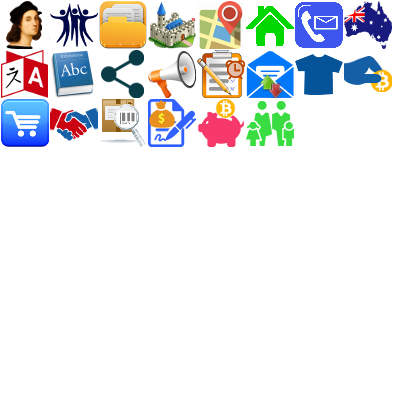
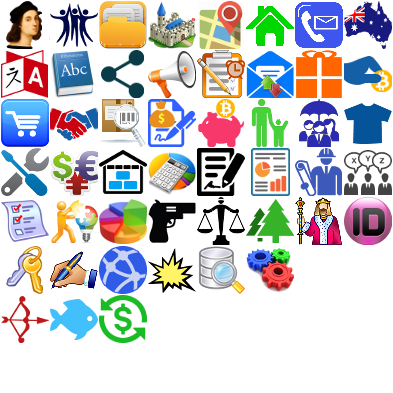
version 0.42 alpha

Changed region(s): [[0.0, 0.1221, 1.0, 0.8855]]

diff --git a/pandora.rb b/pandora.rb
@@ -14449,22 +14449,24 @@ module PandoraGtk
   # RU: Добавить кнопку на панель инструментов
   def self.add_tool_btn(toolbar, stock, title, toggle=nil)
     btn = nil
+    p 'stock='+stock.inspect
+    if stock.is_a? String
+      image = $window.get_preset_image(stock)
+      #p buf = $window.get_icon_buf(stock, 'pan')
+      #iconset = Gtk::IconSet.new(buf)
+      #image = Gtk::Image.new(iconset, Gtk::IconSize::MENU)
+    else
+      image = Gtk::Image.new(stock, Gtk::IconSize::MENU)
+    end
     if toggle != nil
       btn = SafeToggleToolButton.new(stock)
+      #btn = Gtk::ToolButton.new(image, _(title))
       btn.safe_signal_clicked do |*args|
+      #btn.signal_connect('clicked') do |*args|
         yield(*args) if block_given?
       end
       btn.active = toggle if toggle
     else
-      p stock
-      if stock.is_a? String
-        image = $window.get_preset_image(stock)
-        #p buf = $window.get_icon_buf(stock, 'pan')
-        #iconset = Gtk::IconSet.new(buf)
-        #image = Gtk::Image.new(iconset, Gtk::IconSize::MENU)
-      else
-        image = Gtk::Image.new(stock, Gtk::IconSize::MENU)
-      end
       #btn = Gtk::ToolButton.new(iconset, _(title))
       btn = Gtk::ToolButton.new(image, _(title))
       #btn = Gtk::ToolButton.new(stock)
@@ -15867,7 +15869,7 @@ module PandoraGtk
     dlg.transient_for = $window
     dlg.icon = $window.icon
     dlg.name = $window.title
-    dlg.version = '0.41'
+    dlg.version = '0.42'
     dlg.logo = Gdk::Pixbuf.new(File.join($pandora_view_dir, 'pandora.png'))
     dlg.authors = [_('Michael Galyuk')+' <robux@mail.ru>']
     dlg.artists = ['© '+_('Rights to logo are owned by 21th Century Fox')]
@@ -16583,7 +16585,7 @@ module PandoraGtk
       tool_btn = $toggle_buttons[PandoraGtk::SF_Listen]
       if tool_btn
         lis_act = ($tcp_listen_thread != nil) or ($udp_listen_thread != nil)
-        tool_btn.safe_set_active(lis_act)
+        tool_btn.safe_set_active(lis_act) if tool_btn.is_a? SafeToggleToolButton
       end
     end
 
@@ -16593,7 +16595,7 @@ module PandoraGtk
       tool_btn = $toggle_buttons[SF_Hunt]
       pushed = ($hunter_thread and $hunter_thread[:active] and (not $hunter_thread[:paused]))
       p 'pushed='+pushed.inspect
-      tool_btn.safe_set_active(pushed) if tool_btn
+      tool_btn.safe_set_active(pushed) if tool_btn.is_a? SafeToggleToolButton
       if pushed
         $window.set_status_field(PandoraGtk::SF_Hunt, 'Hunting', nil, true)
       else
@@ -16677,7 +16679,7 @@ module PandoraGtk
         end
         if (toggle != nil)
           btn.safe_set_active(toggle) if btn.is_a? SafeToggleButton
-          $toggle_buttons[index].safe_set_active(toggle) if $toggle_buttons[index]
+          $toggle_buttons[index].safe_set_active(toggle) if $toggle_buttons[index] and ($toggle_buttons[index].is_a? SafeToggleToolButton)
         end
       end
     end
@@ -16703,6 +16705,8 @@ module PandoraGtk
         icon_preset = @icon_presets[preset]
         if icon_preset.nil?
           smile_desc = PandoraUtils.get_param('icons_'+preset)
+          p 'smile_desc='+smile_desc.inspect
+          p 'smile_desc.size='+smile_desc.size.inspect
           icon_params = smile_desc.split('|')
           icon_file_desc = icon_params[0]
           icon_params.delete_at(0)
@@ -16836,12 +16840,14 @@ module PandoraGtk
 
           left = left/pix_size
           right = right/pix_size
-          p '====[top,bottom,left,right]='+[top,bottom,left,right].inspect
+          #p '====[top,bottom,left,right]='+[top,bottom,left,right].inspect
 
           width2 = right-left+1
           height2 = bottom-top+1
+          #p '  ---[width2,height2]='+[width2,height2].inspect
 
-          if (left>0) or (top>0) or (width2<width) or (height2<height)
+          if (width2>0) and (height2>0) \
+          and ((left>0) or (top>0) or (width2<width) or (height2<height))
             # Crop borders
             buf = Gdk::Pixbuf.new(Gdk::Pixbuf::COLORSPACE_RGB, true, 8, width2, height2)
             draft_buf.copy_area(left, top, width2, height2, buf, 0, 0)
@@ -17189,45 +17195,45 @@ module PandoraGtk
       ['Debenture', 'debenture:m', 'Debentures'],
       ['Deposit', 'deposit:m', 'Deposits'],
       ['Guarantee', 'guarantee:m', 'Guarantees'],
-      ['Insurer', nil, 'Insurers'],
+      ['Insurer', 'insurer:m', 'Insurers'],
       ['-', nil, '-'],
-      ['Product', nil, 'Products'],
-      ['Service', nil, 'Services'],
-      ['Currency', nil, 'Currency'],
-      ['Storage', nil, 'Storages'],
-      ['Estimate', nil, 'Estimates'],
-      ['Contract', nil, 'Contracts'],
-      ['Report', nil, 'Reports'],
+      ['Product', 'product:m', 'Products'],
+      ['Service', 'service:m', 'Services'],
+      ['Currency', 'currency:m', 'Currency'],
+      ['Storage', 'storage:m', 'Storages'],
+      ['Estimate', 'estimate:m', 'Estimates'],
+      ['Contract', 'contract:m', 'Contracts'],
+      ['Report', 'report:m', 'Reports'],
       [nil, nil, '_Region'],
-      ['Project', nil, 'Projects'],
-      ['Resolution', nil, 'Resolutions'],
-      ['Law', nil, 'Laws'],
+      ['Project', 'project:m', 'Projects'],
+      ['Resolution', 'resolution:m', 'Resolutions'],
+      ['Law', 'law:m', 'Laws'],
       ['-', nil, '-'],
-      ['Contribution', nil, 'Contributions'],
-      ['Expenditure', nil, 'Expenditures'],
+      ['Contribution', 'contribution:m', 'Contributions'],
+      ['Expenditure', 'expenditure:m', 'Expenditures'],
       ['-', nil, '-'],
-      ['Offense', nil, 'Offenses'],
-      ['Punishment', nil, 'Punishments'],
+      ['Offense', 'offense:m', 'Offenses'],
+      ['Punishment', 'punishment:m', 'Punishments'],
       ['-', nil, '-'],
-      ['Resource', nil, 'Resources'],
-      ['Delegation', nil, 'Delegations'],
-      ['Registry', nil, 'Registry'],
+      ['Resource', 'resource:m', 'Resources'],
+      ['Delegation', 'delegation:m', 'Delegations'],
+      ['Registry', 'registry:m', 'Registry'],
       [nil, nil, '_Node'],
       ['Parameter', Gtk::Stock::PROPERTIES, 'Parameters'],
       ['-', nil, '-'],
-      ['Key', Gtk::Stock::GOTO_BOTTOM, 'Keys'],
-      ['Sign', nil, 'Signs'],
-      ['Node', Gtk::Stock::NETWORK, 'Nodes'],
-      ['Event', nil, 'Events'],
-      ['Request', Gtk::Stock::SELECT_COLOR, 'Requests'],
-      ['Session', Gtk::Stock::JUSTIFY_FILL, 'Sessions', '<control>S'],
+      ['Key', 'key', 'Keys'],
+      ['Sign', 'sign', 'Signs'],
+      ['Node', 'node', 'Nodes'],
+      ['Event', 'event:m', 'Events'],
+      ['Request', 'request:m', 'Requests'],
+      ['Session', 'session:m', 'Sessions', '<control>S'],
       ['-', nil, '-'],
       ['Authorize', Gtk::Stock::DIALOG_AUTHENTICATION, 'Authorize', '<control>U'],
       ['Listen', Gtk::Stock::CONNECT, 'Listen', '<control>L', :check],
-      ['Hunt', Gtk::Stock::REFRESH, 'Hunt', '<control>H', :check],
-      ['Fish', Gtk::Stock::GO_FORWARD, 'Neighbors', '<control>N', :check],
+      ['Hunt', Gtk::Stock::REFRESH, 'Hunt', '<control>H', :check],   #Gtk::Stock::REFRESH
+      ['Fish', Gtk::Stock::GO_FORWARD, 'Neighbors', '<control>N', :check],  #Gtk::Stock::GO_FORWARD
       ['Search', Gtk::Stock::FIND, 'Search', '<control>T'],
-      ['Exchange', nil, 'Exchange'],
+      ['Exchange', 'exchange:m', 'Exchange'],
       ['-', nil, '-'],
       ['Profile', Gtk::Stock::HOME, 'Profile'],
       ['Wizard', Gtk::Stock::PREFERENCES, 'Wizards'],
